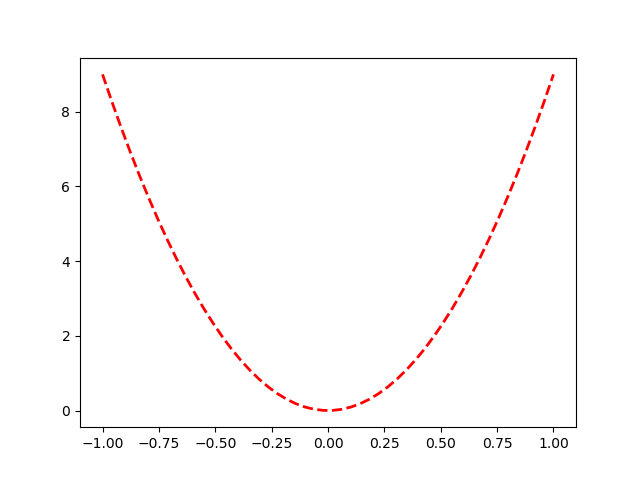
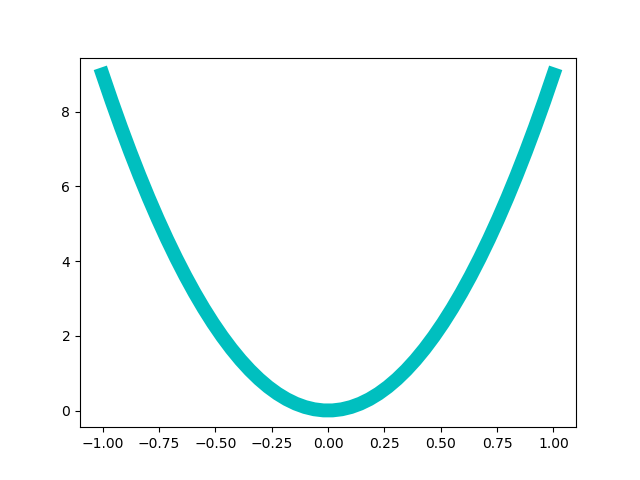
first commit

Changed region(s): [[0.125, 0.125, 0.875, 0.875]]

diff --git a/example.py b/example.py
@@ -4,5 +4,5 @@ import numpy as np
 x = np.linspace(-1, 1, 50)
 y = 9*x*x
 
-plt.plot(x, y,'r--',linewidth=2)
+plt.plot(x, y,'c-',linewidth=10)
 plt.savefig('chart.png')

diff --git a/README.md b/README.md
@@ -1,4 +1,4 @@
-# Quadratic Line Chart Dorothy 
+# Quadratic Line Chart Sandra 
 
 Example for my book (matplotlib, python)
 
